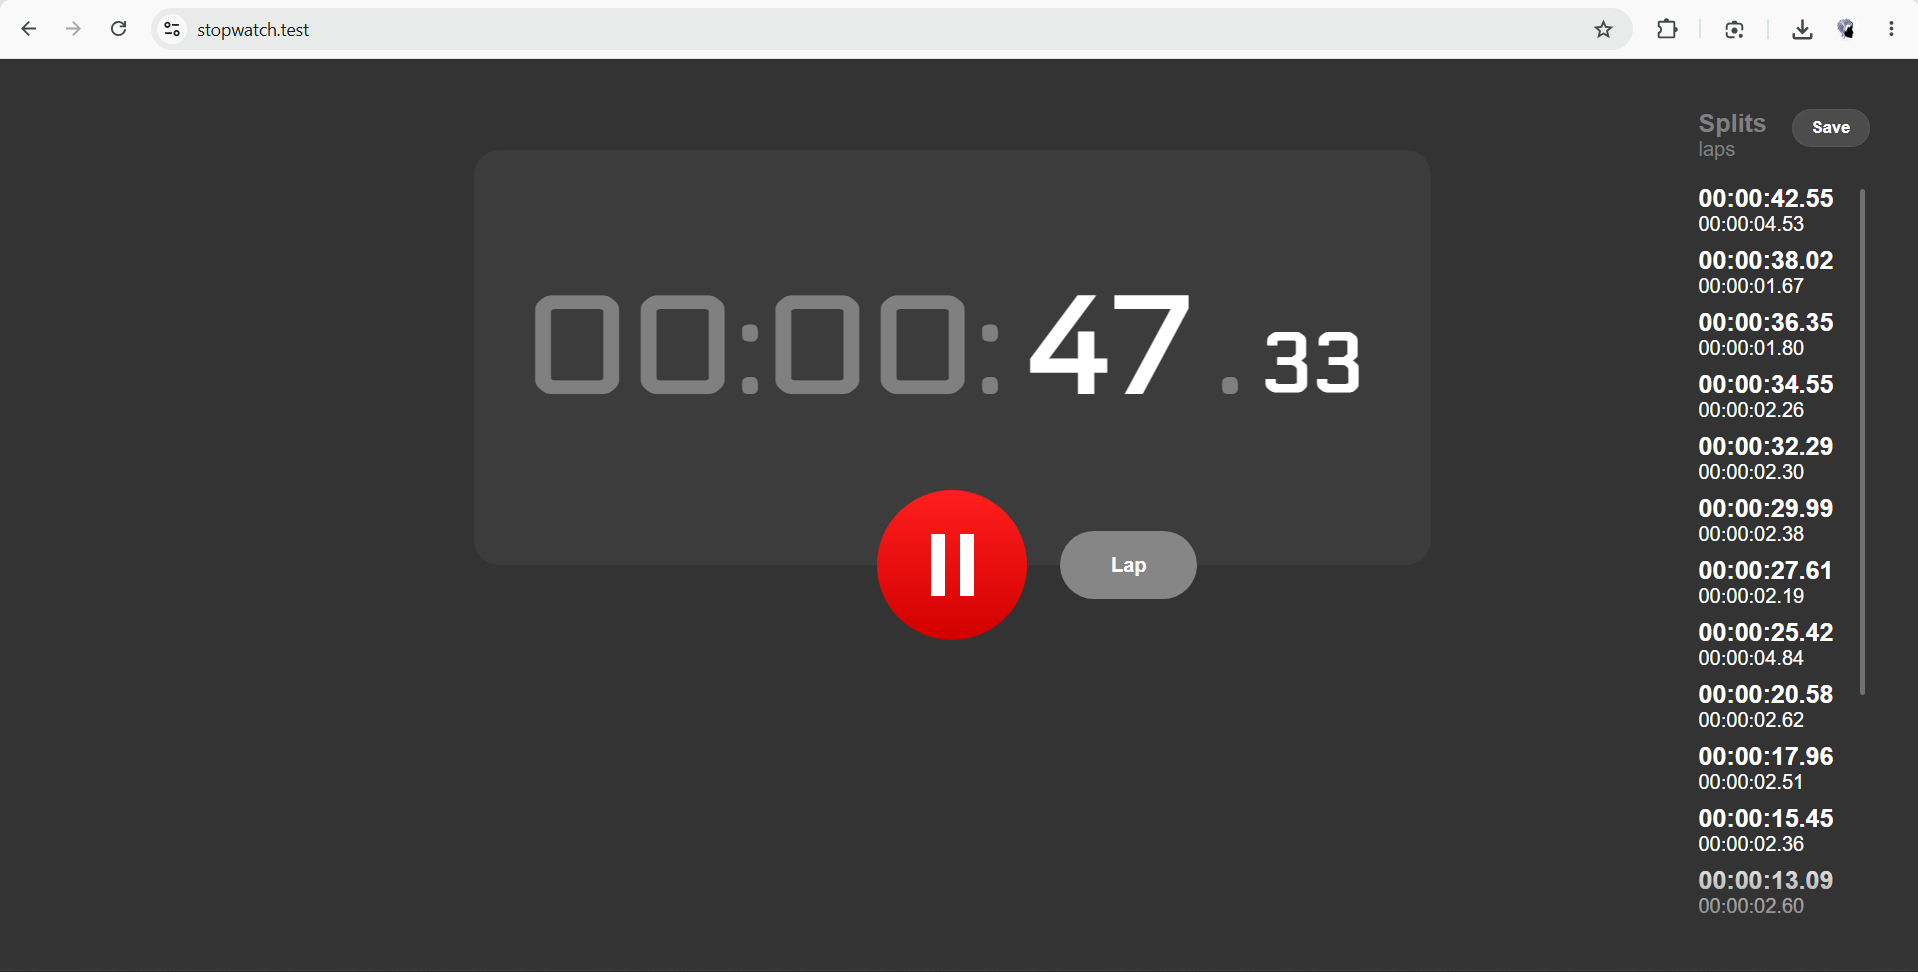
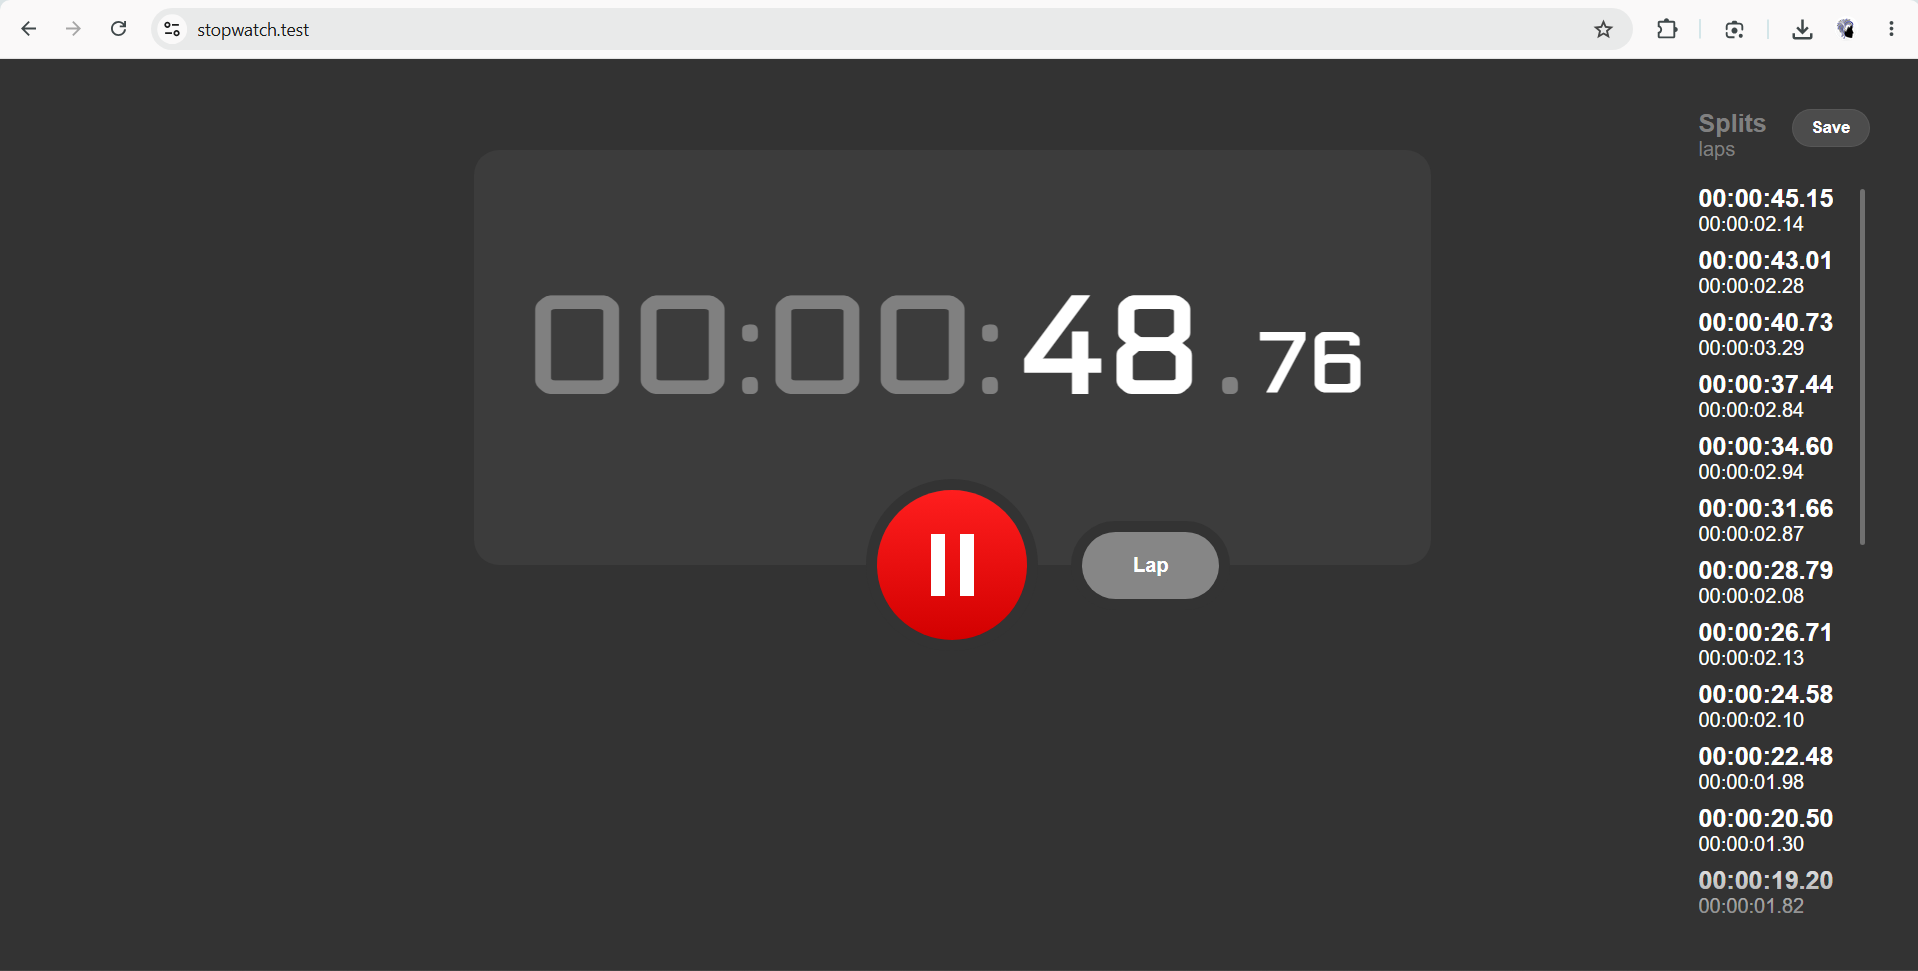
Changed the App Image Screenshot with Button Borders and Added README file

Changed region(s): [[0.8921, 0.1854, 0.9844, 0.9578], [0.5229, 0.309, 0.7075, 0.4016], [0.5537, 0.5252, 0.646, 0.6179]]

diff --git a/README.md b/README.md
@@ -1,0 +1,7 @@
+<img width="100%" src="stopwatch-app-webpage.png?v=2" alt="Stopwatch App Webpage">
+
+# <img valign='middle' src='https://readme-swatches.vercel.app/868686?style=round'/> <img valign='middle' src='https://readme-swatches.vercel.app/DCDCDC?style=round'/> StopWatch:
+It tracks split times, calculates the exact lap duration between splits, and lets you download the complete time data for your event as a .txt file.
+<br><br>
+### <img valign='middle' src='https://readme-swatches.vercel.app/868686?style=round'/>&nbsp;&nbsp;<img valign='middle' src='https://readme-swatches.vercel.app/DCDCDC?style=round'/>&nbsp;&nbsp;Use this app live at:
+https://stopwatch.manojkumarvettigunta.space/
